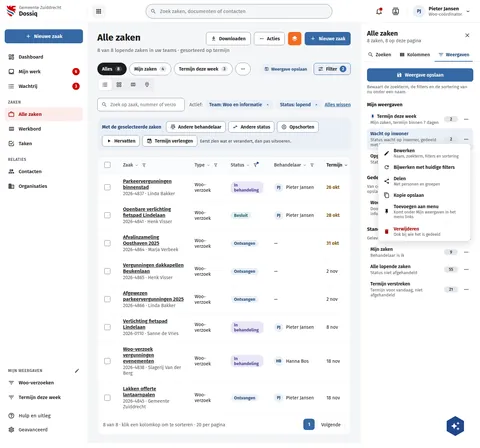
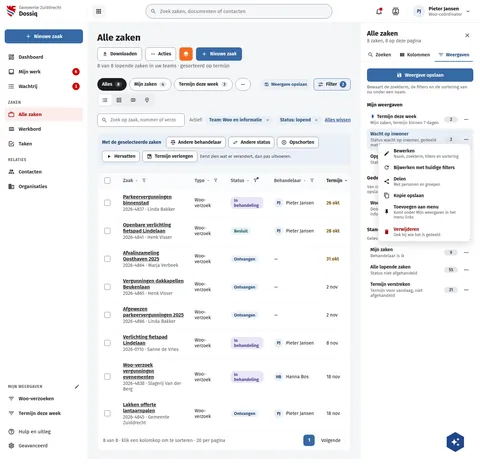
fix(screens): beside the side panel the page actions sit under the title
Coordinator decision (25 Oct, r29): with the side panel open the page
actions take the row under the title, as DqZakenSorteren draws it and as
live does (nextcloud-vue board-header-buttons-under-title-beside-side-
panel). #389 had put them beside the title on DqFilterBeheren and
DqFilterInMenu; the title basis is back to 320px, so they wrap under it.
DqFilterBewerken, Delen and Verwijderen already draw them so.

Assisted-by: ClaudeCode:claude-opus-5-5

diff --git a/preview/screens/boards/DqFilterInMenu.html b/preview/screens/boards/DqFilterInMenu.html
@@ -140,7 +140,7 @@ a{color:var(--sc-primary, #3669a5)}a:hover{color:var(--sc-primary-deep, #234a78)
       <main style="padding: 24px 28px; display: flex; flex-direction: column; gap: 20px; max-width: 1240px; box-sizing: border-box; width: 100%">
         <section style="display: flex; flex-direction: column; gap: 6px; padding: 4px 0 8px">
         <div style="display: flex; flex-wrap: wrap; justify-content: space-between; align-items: flex-start; gap: 12px 24px">
-          <h1 style="flex: 1 1 160px; min-width: 0; margin: 0; font-size: 28px; font-weight: 700; line-height: 1.2">Termijn deze week</h1>
+          <h1 style="flex: 1 1 320px; min-width: 0; margin: 0; font-size: 28px; font-weight: 700; line-height: 1.2">Termijn deze week</h1>
           <div style="flex: none; display: flex; flex-wrap: wrap; gap: 10px">
             <button type="button" style="display: flex; align-items: center; gap: 8px; height: 40px; padding: 0 14px; border: 1px solid var(--sc-work-field, #828a95); border-radius: 8px; background: #ffffff; font: 600 14px var(--sc-font, 'Fira Sans'), sans-serif; color: var(--sc-work-ink, #1b1c1d)"><svg width="16" height="16" viewbox="0 0 24 24" fill="currentColor"><path d="M13,5V11H14.17L12,13.17L9.83,11H11V5H13M15,3H9V9H5L12,16L19,9H15V3M19,18H5V20H19V18Z"></path></svg>Downloaden</button>
             <button type="button" aria-haspopup="menu" style="display: flex; align-items: center; gap: 8px; height: 40px; padding: 0 14px; border: 1px solid var(--sc-work-field, #828a95); border-radius: 8px; background: #ffffff; font: 600 14px var(--sc-font, 'Fira Sans'), sans-serif; color: var(--sc-work-ink, #1b1c1d)"><svg width="16" height="16" viewbox="0 0 24 24" fill="currentColor" aria-hidden="true"><path d="M16,12A2,2 0 0,1 18,10A2,2 0 0,1 20,12A2,2 0 0,1 18,14A2,2 0 0,1 16,12M10,12A2,2 0 0,1 12,10A2,2 0 0,1 14,12A2,2 0 0,1 12,14A2,2 0 0,1 10,12M4,12A2,2 0 0,1 6,10A2,2 0 0,1 8,12A2,2 0 0,1 6,14A2,2 0 0,1 4,12Z"></path></svg>Acties</button><button type="button" aria-label="buildiq" title="buildiq" style="display: flex; align-items: center; justify-content: center; width: 40px; height: 40px; border: 0; border-radius: 8px; background: #f36c21; color: #ffffff"><svg width="20" height="20" viewbox="0 0 24 24" fill="currentColor"><path d="M12,16L19.36,10.27L21,9L12,2L3,9L4.63,10.27M12,18.54L4.62,12.81L3,14.07L12,21.07L21,14.07L19.37,12.8L12,18.54Z"></path></svg></button>

diff --git a/preview/screens/boards/DqFilterBeheren.html b/preview/screens/boards/DqFilterBeheren.html
@@ -140,7 +140,7 @@ a{color:var(--sc-primary, #3669a5)}a:hover{color:var(--sc-primary-deep, #234a78)
       <main style="padding: 24px 28px; display: flex; flex-direction: column; gap: 20px; max-width: 1240px; box-sizing: border-box; width: 100%">
         <section style="display: flex; flex-direction: column; gap: 6px; padding: 4px 0 8px">
         <div style="display: flex; flex-wrap: wrap; justify-content: space-between; align-items: flex-start; gap: 12px 24px">
-          <h1 style="flex: 1 1 160px; min-width: 0; margin: 0; font-size: 28px; font-weight: 700; line-height: 1.2">Alle zaken</h1>
+          <h1 style="flex: 1 1 320px; min-width: 0; margin: 0; font-size: 28px; font-weight: 700; line-height: 1.2">Alle zaken</h1>
           <div style="flex: none; display: flex; flex-wrap: wrap; gap: 10px">
             <button type="button" style="display: flex; align-items: center; gap: 8px; height: 40px; padding: 0 14px; border: 1px solid var(--sc-work-field, #828a95); border-radius: 8px; background: #ffffff; font: 600 14px var(--sc-font, 'Fira Sans'), sans-serif; color: var(--sc-work-ink, #1b1c1d)"><svg width="16" height="16" viewbox="0 0 24 24" fill="currentColor"><path d="M13,5V11H14.17L12,13.17L9.83,11H11V5H13M15,3H9V9H5L12,16L19,9H15V3M19,18H5V20H19V18Z"></path></svg>Downloaden</button>
             <button type="button" aria-haspopup="menu" style="display: flex; align-items: center; gap: 8px; height: 40px; padding: 0 14px; border: 1px solid var(--sc-work-field, #828a95); border-radius: 8px; background: #ffffff; font: 600 14px var(--sc-font, 'Fira Sans'), sans-serif; color: var(--sc-work-ink, #1b1c1d)"><svg width="16" height="16" viewbox="0 0 24 24" fill="currentColor" aria-hidden="true"><path d="M16,12A2,2 0 0,1 18,10A2,2 0 0,1 20,12A2,2 0 0,1 18,14A2,2 0 0,1 16,12M10,12A2,2 0 0,1 12,10A2,2 0 0,1 14,12A2,2 0 0,1 12,14A2,2 0 0,1 10,12M4,12A2,2 0 0,1 6,10A2,2 0 0,1 8,12A2,2 0 0,1 6,14A2,2 0 0,1 4,12Z"></path></svg>Acties</button><button type="button" aria-label="buildiq" title="buildiq" style="display: flex; align-items: center; justify-content: center; width: 40px; height: 40px; border: 0; border-radius: 8px; background: #f36c21; color: #ffffff"><svg width="20" height="20" viewbox="0 0 24 24" fill="currentColor"><path d="M12,16L19.36,10.27L21,9L12,2L3,9L4.63,10.27M12,18.54L4.62,12.81L3,14.07L12,21.07L21,14.07L19.37,12.8L12,18.54Z"></path></svg></button>

diff --git a/screens-src/zuiddrecht/DqFilterInMenu.dc.html b/screens-src/zuiddrecht/DqFilterInMenu.dc.html
@@ -22,7 +22,7 @@ a{color:#3669a5}a:hover{color:#234a78}
       <main style="padding: 24px 28px; display: flex; flex-direction: column; gap: 20px; max-width: 1240px; box-sizing: border-box; width: 100%">
         <section style="display: flex; flex-direction: column; gap: 6px; padding: 4px 0 8px">
         <div style="display: flex; flex-wrap: wrap; justify-content: space-between; align-items: flex-start; gap: 12px 24px">
-          <h1 style="flex: 1 1 160px; min-width: 0; margin: 0; font-size: 28px; font-weight: 700; line-height: 1.2">Termijn deze week</h1>
+          <h1 style="flex: 1 1 320px; min-width: 0; margin: 0; font-size: 28px; font-weight: 700; line-height: 1.2">Termijn deze week</h1>
           <div style="flex: none; display: flex; flex-wrap: wrap; gap: 10px">
             <button type="button" style="display: flex; align-items: center; gap: 8px; height: 40px; padding: 0 14px; border: 1px solid #828a95; border-radius: 8px; background: #ffffff; font: 600 14px 'Fira Sans', sans-serif; color: #1b1c1d"><svg width="16" height="16" viewBox="0 0 24 24" fill="currentColor"><path d="M13,5V11H14.17L12,13.17L9.83,11H11V5H13M15,3H9V9H5L12,16L19,9H15V3M19,18H5V20H19V18Z"></path></svg>Downloaden</button>
             <button type="button" aria-haspopup="menu" style="display: flex; align-items: center; gap: 8px; height: 40px; padding: 0 14px; border: 1px solid #828a95; border-radius: 8px; background: #ffffff; font: 600 14px 'Fira Sans', sans-serif; color: #1b1c1d"><svg width="16" height="16" viewBox="0 0 24 24" fill="currentColor" aria-hidden="true"><path d="M16,12A2,2 0 0,1 18,10A2,2 0 0,1 20,12A2,2 0 0,1 18,14A2,2 0 0,1 16,12M10,12A2,2 0 0,1 12,10A2,2 0 0,1 14,12A2,2 0 0,1 12,14A2,2 0 0,1 10,12M4,12A2,2 0 0,1 6,10A2,2 0 0,1 8,12A2,2 0 0,1 6,14A2,2 0 0,1 4,12Z"></path></svg>Acties</button><button type="button" aria-label="buildiq" title="buildiq" style="display: flex; align-items: center; justify-content: center; width: 40px; height: 40px; border: 0; border-radius: 8px; background: #f36c21; color: #ffffff"><svg width="20" height="20" viewBox="0 0 24 24" fill="currentColor"><path d="M12,16L19.36,10.27L21,9L12,2L3,9L4.63,10.27M12,18.54L4.62,12.81L3,14.07L12,21.07L21,14.07L19.37,12.8L12,18.54Z"></path></svg></button>

diff --git a/screens-src/zuiddrecht/DqFilterBeheren.dc.html b/screens-src/zuiddrecht/DqFilterBeheren.dc.html
@@ -22,7 +22,7 @@ a{color:#3669a5}a:hover{color:#234a78}
       <main style="padding: 24px 28px; display: flex; flex-direction: column; gap: 20px; max-width: 1240px; box-sizing: border-box; width: 100%">
         <section style="display: flex; flex-direction: column; gap: 6px; padding: 4px 0 8px">
         <div style="display: flex; flex-wrap: wrap; justify-content: space-between; align-items: flex-start; gap: 12px 24px">
-          <h1 style="flex: 1 1 160px; min-width: 0; margin: 0; font-size: 28px; font-weight: 700; line-height: 1.2">Alle zaken</h1>
+          <h1 style="flex: 1 1 320px; min-width: 0; margin: 0; font-size: 28px; font-weight: 700; line-height: 1.2">Alle zaken</h1>
           <div style="flex: none; display: flex; flex-wrap: wrap; gap: 10px">
             <button type="button" style="display: flex; align-items: center; gap: 8px; height: 40px; padding: 0 14px; border: 1px solid #828a95; border-radius: 8px; background: #ffffff; font: 600 14px 'Fira Sans', sans-serif; color: #1b1c1d"><svg width="16" height="16" viewBox="0 0 24 24" fill="currentColor"><path d="M13,5V11H14.17L12,13.17L9.83,11H11V5H13M15,3H9V9H5L12,16L19,9H15V3M19,18H5V20H19V18Z"></path></svg>Downloaden</button>
             <button type="button" aria-haspopup="menu" style="display: flex; align-items: center; gap: 8px; height: 40px; padding: 0 14px; border: 1px solid #828a95; border-radius: 8px; background: #ffffff; font: 600 14px 'Fira Sans', sans-serif; color: #1b1c1d"><svg width="16" height="16" viewBox="0 0 24 24" fill="currentColor" aria-hidden="true"><path d="M16,12A2,2 0 0,1 18,10A2,2 0 0,1 20,12A2,2 0 0,1 18,14A2,2 0 0,1 16,12M10,12A2,2 0 0,1 12,10A2,2 0 0,1 14,12A2,2 0 0,1 12,14A2,2 0 0,1 10,12M4,12A2,2 0 0,1 6,10A2,2 0 0,1 8,12A2,2 0 0,1 6,14A2,2 0 0,1 4,12Z"></path></svg>Acties</button><button type="button" aria-label="buildiq" title="buildiq" style="display: flex; align-items: center; justify-content: center; width: 40px; height: 40px; border: 0; border-radius: 8px; background: #f36c21; color: #ffffff"><svg width="20" height="20" viewBox="0 0 24 24" fill="currentColor"><path d="M12,16L19.36,10.27L21,9L12,2L3,9L4.63,10.27M12,18.54L4.62,12.81L3,14.07L12,21.07L21,14.07L19.37,12.8L12,18.54Z"></path></svg></button>
